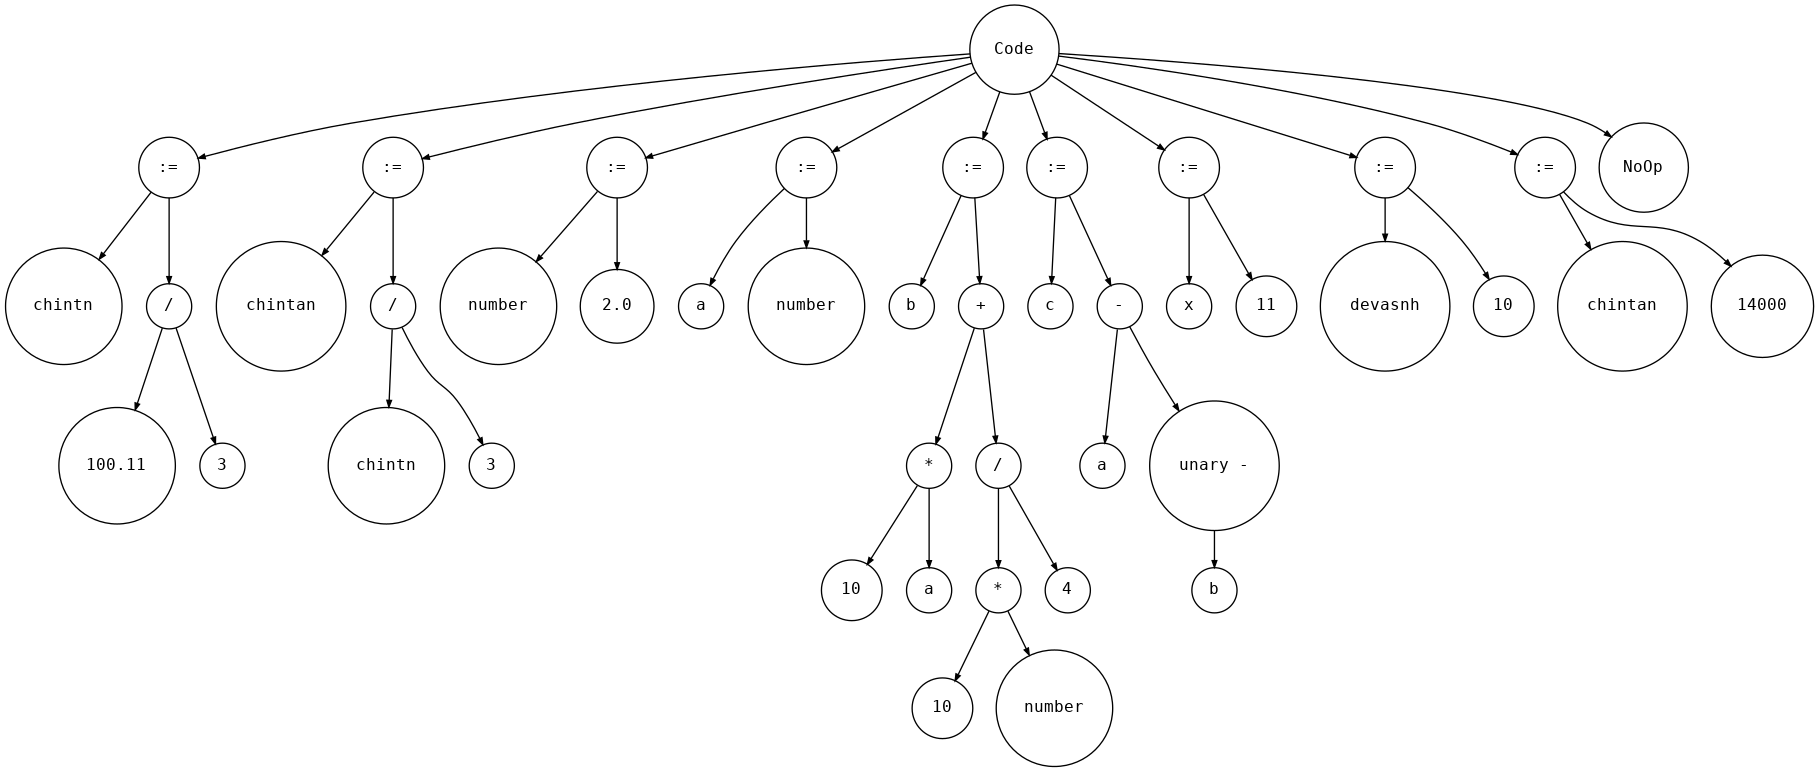
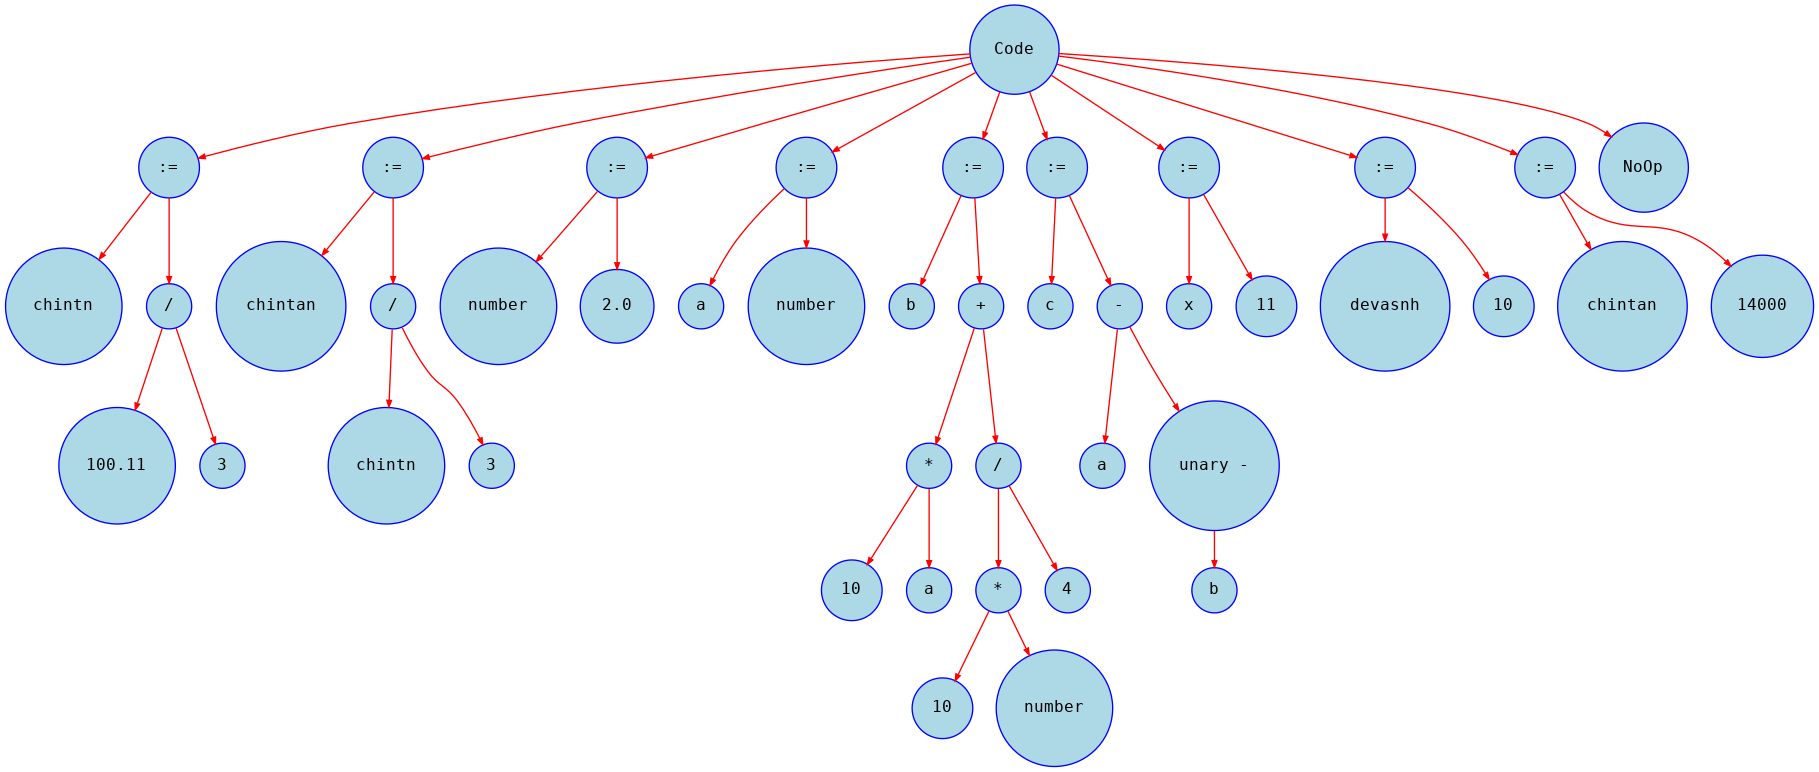
Add color and style to AST graph edges and nodes.

diff --git a/part9/python/genastdot.py b/part9/python/genastdot.py
@@ -16,9 +16,9 @@ class ASTVisualizer(NodeVisitor):
         self.ncount = 1
         self.dot_header = [textwrap.dedent("""\
         digraph astgraph {
-          node [shape=circle, fontsize=12, fontname="Courier", height=.1];
+          node [shape=circle, fontsize=12, fontname="Courier", height=.1, color=blue, fillcolor=lightblue, style=filled];
           ranksep=.3;
-          edge [arrowsize=.5]
+          edge [arrowsize=.5, color=red];
 
         """)]
         self.dot_body = []
